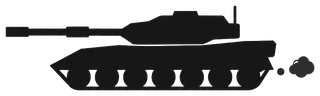
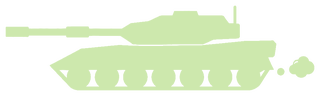
Add files via upload

diff --git a/app.js b/app.js
@@ -166,8 +166,8 @@ function updateTimerVisuals() {
 
   if (timerRing) {
     timerRing.style.strokeDasharray = `${CIRCLE_CIRCUMFERENCE}`;
-    // Negative Richtung = links herum / gegen den Uhrzeigersinn
-    timerRing.style.strokeDashoffset = `${-dashOffset}`;
+    // Positive Dashoffset-Richtung = sichtbarer Ablauf gegen den Uhrzeigersinn
+    timerRing.style.strokeDashoffset = `${dashOffset}`;
   }
 
   updateTankPosition(progress);
@@ -186,9 +186,8 @@ function updateTankPosition(progress) {
   const x = center + orbitRadius * Math.sin(angleRad);
   const y = center - orbitRadius * Math.cos(angleRad);
 
-  // Panzer-Bild zeigt nach rechts. +180° bedeutet: oben startet er nach links,
-  // also in die Bewegungsrichtung des linken Umlaufs.
-  const rotationDeg = angleDeg + 180;
+  // Panzer-Bild zeigt bereits nach links. Oben fährt er gegen den Uhrzeigersinn nach links.
+  const rotationDeg = angleDeg;
 
   tankIcon.style.left = `${x}px`;
   tankIcon.style.top = `${y}px`;

diff --git a/style.css b/style.css
@@ -333,14 +333,14 @@ button:active {
   position: absolute;
   left: 110px;
   top: 10px;
-  width: 58px;
+  width: 72px;
   height: auto;
-  transform: translate(-50%, -50%) rotate(180deg);
+  transform: translate(-50%, -50%) rotate(0deg);
   transform-origin: center center;
   transition: left .25s linear, top .25s linear, transform .25s linear;
   z-index: 3;
   pointer-events: none;
-  filter: drop-shadow(0 3px 5px rgba(0,0,0,.45));
+  filter: drop-shadow(0 3px 5px rgba(0,0,0,.6));
 }
 
 
@@ -360,6 +360,6 @@ button:active {
   }
 
   .tank-icon {
-    width: 50px;
+    width: 58px;
   }
 }